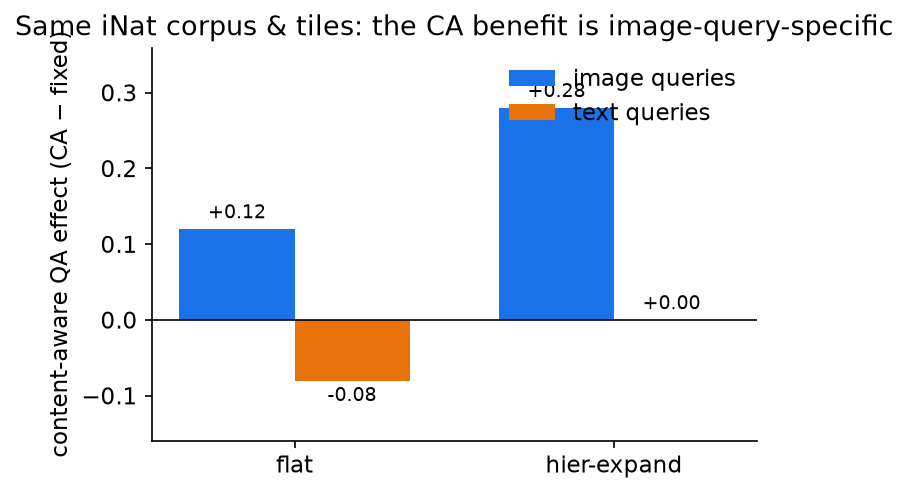
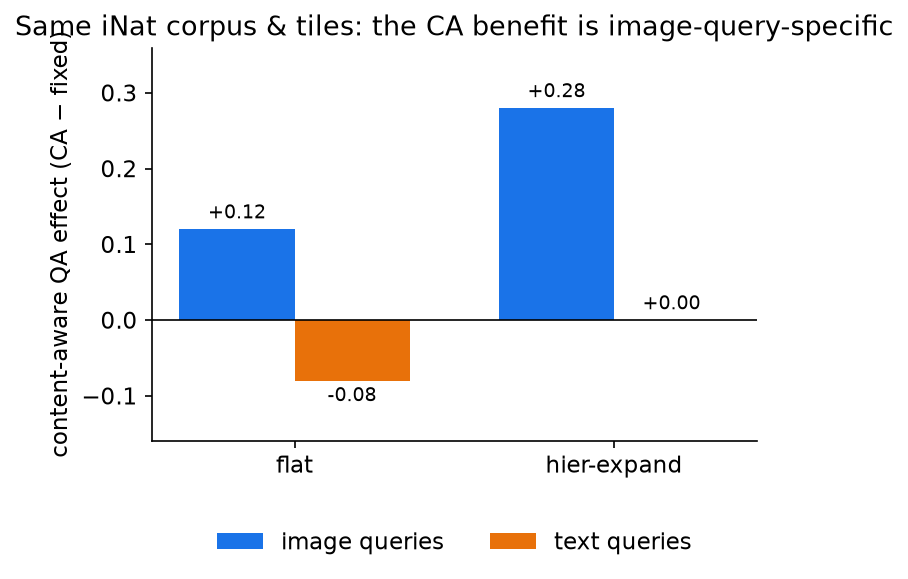
paper: Fig 2 legend below axes + m3docdep -> CVPR 2026
- fig2_modality_flip: move legend below the axes (2-col) so it no longer overlaps the
  +0.28 bar-value label; plotted values, axes, title, and labels are unchanged.
- refs.bib: m3docdep accepted to CVPR 2026 (arXiv Comments "Accepted to CVPR2026 Main")
  -> @user (CVPR proceedings), full author list, arXiv:2605.18774 kept as note.
- regenerate main.bbl to match.

Verified (no change): Table 5 Fixed columns (image vs text) are genuine independent runs
-- distinct JSONs, all 25/25 qids retrieve different tiles; the equal 0.44/0.40 totals are
coincidental, not a key-reuse bug. Compiles clean via tectonic: 0 overfull, 0 undefined refs.

diff --git a/paper/gen_paper_numbers.py b/paper/gen_paper_numbers.py
@@ -375,7 +375,7 @@ ax.set_xticks(x)
 ax.set_xticklabels(groups)
 ax.set_ylabel("content-aware QA effect (CA $-$ fixed)")
 ax.set_title("Same iNat corpus & tiles: the CA benefit is image-query-specific")
-ax.legend(frameon=False, loc="upper right")
+ax.legend(frameon=False, loc="upper center", bbox_to_anchor=(0.5, -0.18), ncol=2)  # below axes; no bar/label overlap
 ax.margins(y=0.22)
 savefig(fig, "fig2_modality_flip")
 